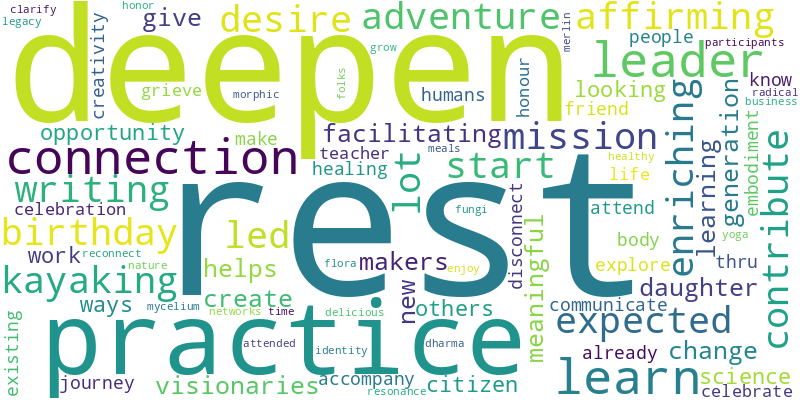
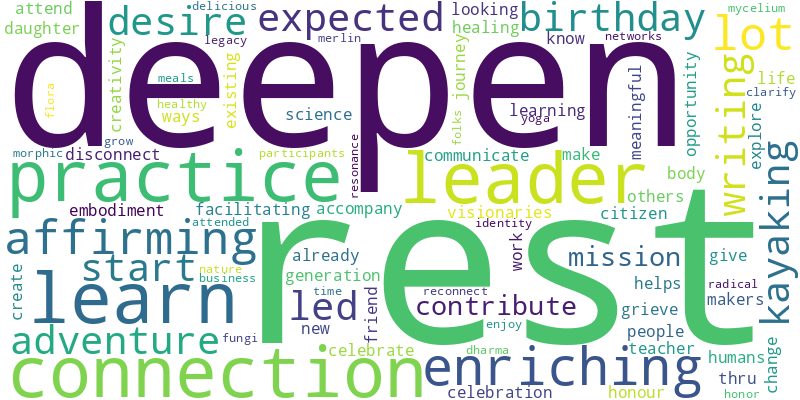
word cloud edits and additions

diff --git a/text_analysis.py b/text_analysis.py
@@ -6,35 +6,41 @@ import matplotlib.pyplot as plt
 import os
 import json
 
-with open('intentions_dict.json', 'r') as f:
+# Load all dicts from correct file paths
+with open('/workspaces/hh-conf/Data/intentions_dict.json', 'r') as f:
     intentions_dict = json.load(f)
+with open('/workspaces/hh-conf/Data/impact_dict.json', 'r') as f:
+    impact_dict = json.load(f)
 
 # If not already downloaded:
-nltk.download('popular')
-nltk.download('punkt_tab')
+nltk.download('punkt')
 nltk.download('stopwords')
 
-# Flatten all custom intentions into a single list
-all_intentions = [item for sublist in intentions_dict.values() for item in sublist]
-
-# Tokenize and clean
-tokens = [word.lower() for item in all_intentions for word in word_tokenize(item, language='english')]
+custom_exclude = {
+    'hollyhock', 'spend', 'program', 'week', 'mom', 'teenage', 'cosmo', 'part',
+    'drinking', 'within', 'tourists', 'deck', 'happened', 'gained', 'fascism', 'children',
+    'flora', 'merlin', 'alcohol', 'atum', 'bullet', 'dogs', 'babatunde', 'seems', 'carried',
+    'programs', 'coming', 'medium', 'specifically', 'olatunji', 'barking', 'dig', 'campus',
+    'last', 'big'
+}
 stop_words = set(stopwords.words('english'))
-custom_exclude = {'hollyhock', 'spend', 'program', 'week', 'mom', 'teenage', 'cosmo', 'part'}
-filtered_tokens = [w for w in tokens if w.isalpha() and w not in stop_words and w not in custom_exclude]
 
-# Frequency distribution
-fdist = nltk.FreqDist(filtered_tokens)
-print('Most common words:', fdist.most_common(10))
+def analyze_and_wordcloud(data_dict, output_filename):
+    all_text = [item for sublist in data_dict.values() for item in sublist]
+    tokens = [word.lower() for item in all_text for word in word_tokenize(item, language='english')]
+    filtered_tokens = [w for w in tokens if w.isalpha() and w not in stop_words and w not in custom_exclude]
+    fdist = nltk.FreqDist(filtered_tokens)
+    print(f'Most common words in {output_filename}:', fdist.most_common(10))
+    text = ' '.join(filtered_tokens)
+    wordcloud = WordCloud(width=800, height=400, background_color='white').generate(text)
+    plt.figure(figsize=(10,5))
+    plt.imshow(wordcloud, interpolation='bilinear')
+    plt.axis('off')
+    plt.title(f'Word Cloud: {output_filename}')
+    plt.show()
+    wordcloud.to_file(output_filename)
+    print(f'Word cloud saved to {output_filename}')
 
-# Word cloud
-text = ' '.join(filtered_tokens)
-wordcloud = WordCloud(width=800, height=400, background_color='white').generate(text)
-plt.figure(figsize=(10,5))
-plt.imshow(wordcloud, interpolation='bilinear')
-plt.axis('off')
-plt.title('Custom Intentions Word Cloud')
-plt.show()
-output_path = 'intentions_wordcloud.png'
-wordcloud.to_file(output_path)
-print(f'Word cloud saved to {output_path}')
+# Run analysis for each dict
+analyze_and_wordcloud(intentions_dict, 'intentions_wordcloud.png')
+analyze_and_wordcloud(impact_dict, 'impact_wordcloud.png')
